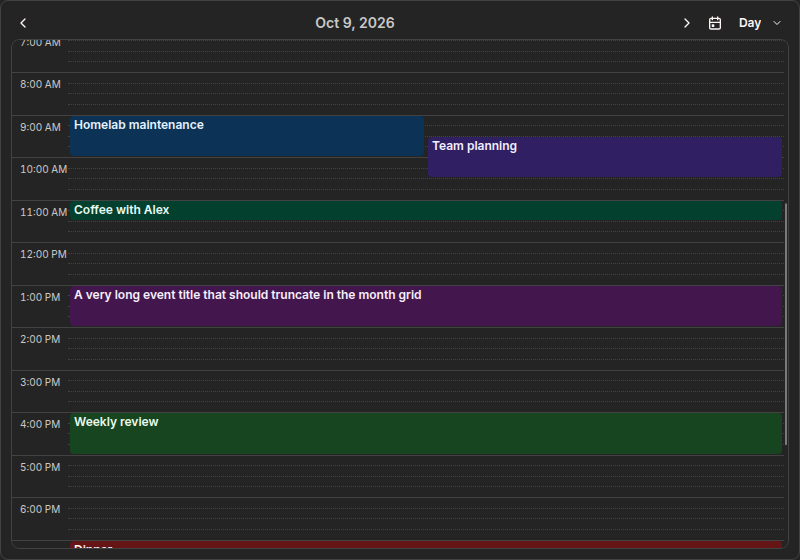
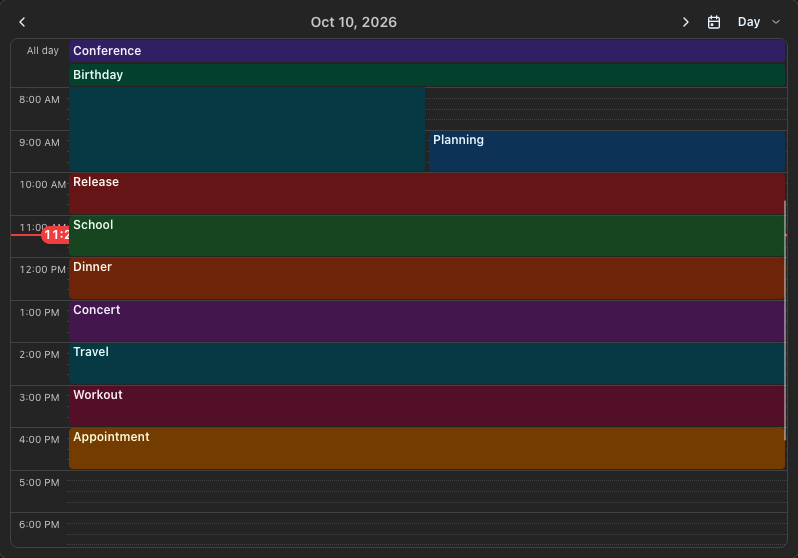
fix(calendar): preserve day events and prioritize default view docs

diff --git a/packages/widgets/src/calendar/calendar-display.tsx b/packages/widgets/src/calendar/calendar-display.tsx
@@ -80,7 +80,10 @@ export const CalendarDisplay = ({
   );
   const eventsByDate = useMemo(() => groupEventsByDate(splitEvents(filteredEvents)), [filteredEvents]);
   const agendaEvents = useMemo(() => getCalendarAgendaEvents(events, date, releaseType), [events, date, releaseType]);
-  const scheduleEvents = useMemo(() => getCalendarScheduleEvents(filteredEvents), [filteredEvents]);
+  const scheduleEvents = useMemo(
+    () => getCalendarScheduleEvents(filteredEvents, view === "day" ? date : undefined),
+    [filteredEvents, view, date],
+  );
   const labels = {
     allDay: t("duration.allDay"),
     today: t("controls.today"),
@@ -135,7 +138,7 @@ export const CalendarDisplay = ({
       startScrollPosition: { y: 8 * Math.max(40, bodyHeight / 12) },
     },
     slotHeight: Math.max(40, bodyHeight / 12),
-    allDaySlotHeight: 32,
+    allDaySlotHeight: 48,
     h: "100%",
     w: "100%",
     slotLabelFormat: (value: string) => formatLocalizedTime(dayjs(value).toDate(), locale),
@@ -296,7 +299,7 @@ export const CalendarDisplay = ({
         {!isPending && view === "day" && bodyHeight > 0 && (
           <DayView
             {...scheduleProps}
-            className={classes.dayView}
+            classNames={{ dayViewAllDay: classes.dayAllDay, dayViewSlotLabel: classes.daySlotLabel }}
             style={{ "--day-view-slot-labels-width": "3.5rem" } as CSSProperties}
             styles={{ dayViewScrollArea: { height: "100%" }, dayViewSlotLabel: { fontSize: 10, whiteSpace: "nowrap" } }}
           />
@@ -306,7 +309,7 @@ export const CalendarDisplay = ({
             {...scheduleProps}
             firstDayOfWeek={firstDayOfWeek}
             withWeekNumber={false}
-            className={classes.weekView}
+            classNames={{ weekViewAllDaySlots: classes.weekAllDay }}
             style={
               {
                 "--week-view-min-slot-width": "0px",

diff --git a/packages/widgets/src/calendar/calendar-schedule-events.ts b/packages/widgets/src/calendar/calendar-schedule-events.ts
@@ -11,9 +11,14 @@ export const isCalendarAllDayEvent = (event: CalendarEventWithSource) => {
   return end.isSame(end.startOf("day")) || end.isSame(end.endOf("day"));
 };
 
-export const getCalendarScheduleEvents = (events: CalendarEventWithSource[]): ScheduleEventData[] =>
-  events.flatMap((event, index) => {
-    const start = dayjs(event.startDate);
+export const getCalendarScheduleEvents = (
+  events: CalendarEventWithSource[],
+  displayedDay?: Date,
+): ScheduleEventData[] => {
+  const dayStart = displayedDay ? dayjs(displayedDay).startOf("day") : undefined;
+  const dayEnd = dayStart?.add(1, "day").startOf("day");
+  return events.flatMap((event, index) => {
+    let start = dayjs(event.startDate);
     if (!start.isValid()) return [];
     let end = start.add(30, "minute");
     if (event.endDate) end = dayjs(event.endDate);
@@ -22,6 +27,11 @@ export const getCalendarScheduleEvents = (events: CalendarEventWithSource[]): Sc
     if (end.isSame(start)) end = start.add(30, "minute");
     // The schedule uses half-open intervals and second precision.
     if (isCalendarAllDayEvent(event) && end.isSame(end.endOf("day"))) end = end.add(1, "millisecond");
+    if (dayStart && dayEnd) {
+      if (!start.isBefore(dayEnd) || !end.isAfter(dayStart)) return [];
+      if (start.isBefore(dayStart)) start = dayStart;
+      if (!end.isBefore(dayEnd)) end = dayEnd.subtract(1, "second");
+    }
     return [
       {
         id: `${event.source?.integrationId ?? "calendar"}:${index}`,
@@ -33,3 +43,4 @@ export const getCalendarScheduleEvents = (events: CalendarEventWithSource[]): Sc
       },
     ];
   });
+};

diff --git a/packages/widgets/src/calendar/component.module.css b/packages/widgets/src/calendar/component.module.css
@@ -88,23 +88,24 @@
   line-height: 12px;
   margin: 0;
 }
-.dayView {
-  --day-view-slot-labels-width: 3.25rem;
+.dayAllDay,
+.weekAllDay,
+.daySlotLabel[data-all-day] {
+  position: sticky;
+  top: 0;
+  z-index: 4;
+  background-color: var(--mantine-color-body);
 }
-.weekView {
-  --week-view-slots-label-width: 3.25rem;
-  --week-view-min-slot-width: 0px;
+.weekAllDay {
+  top: var(--week-view-week-day-height);
 }
 @container (max-width: 340px) {
   .navigation {
     flex-basis: 100%;
   }
-  .weekView {
-    --week-view-slots-label-width: 2.25rem;
-  }
 }
 
-@container (max-width: 700px) {
+@container (max-width: 350px) {
   .eventTime {
     display: none;
   }

diff --git a/apps/docs/docs/widgets/calendar/index.ts b/apps/docs/docs/widgets/calendar/index.ts
@@ -10,7 +10,7 @@ export const calendarWidget: WidgetDefinition = {
     items: [
       {
         name: "View",
-        description: "Saved display mode for this widget. Switching views updates this setting.",
+        description: "Shared default view. View menu selections are remembered only in the current browser.",
         values: "Compact month, Month, Week, Day, Agenda",
         defaultValue: "Compact month",
       },
